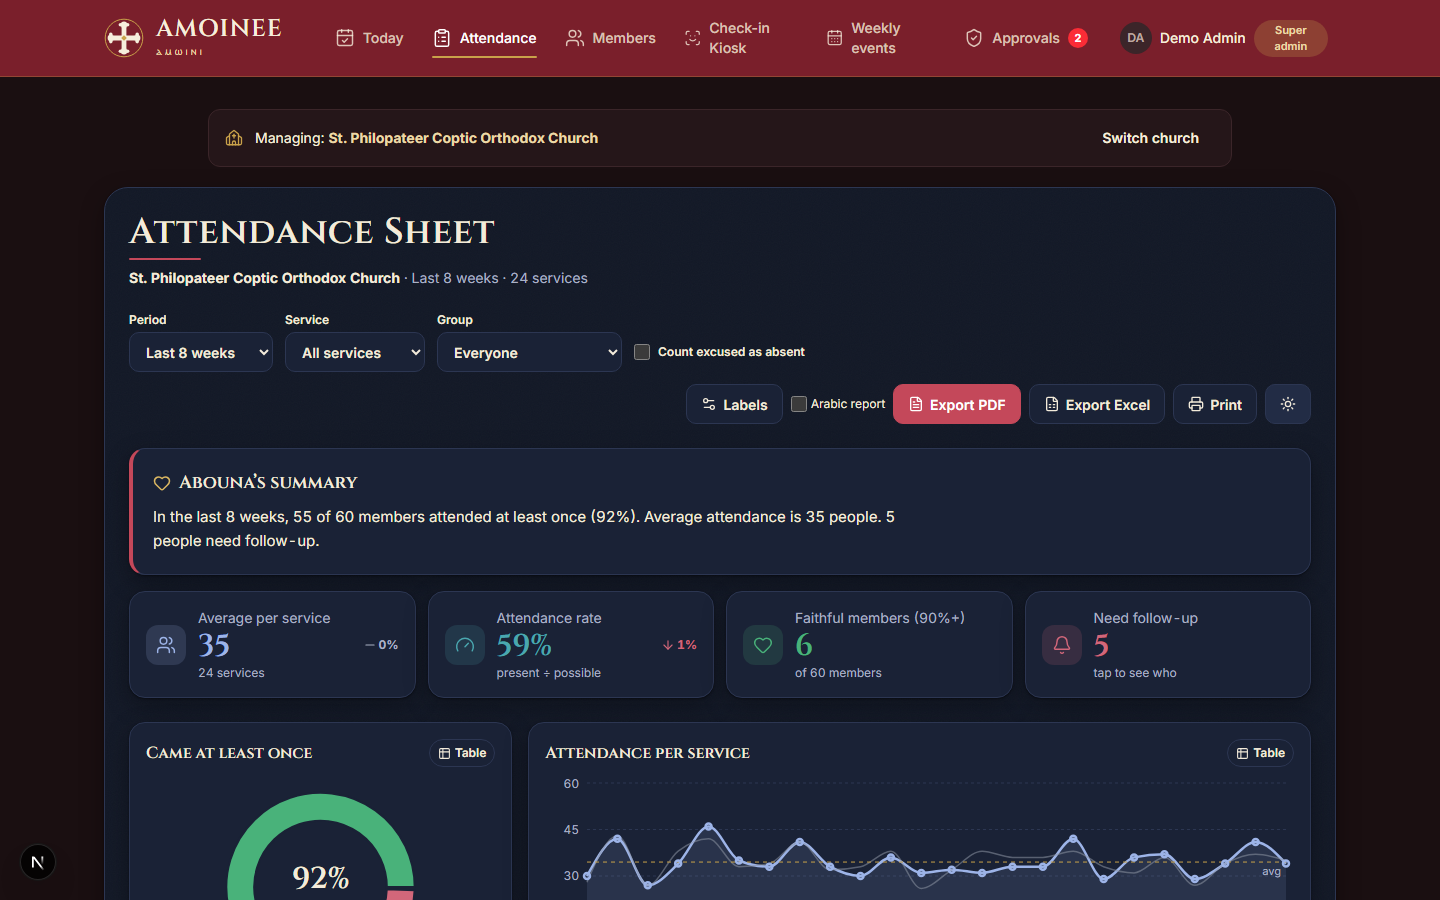
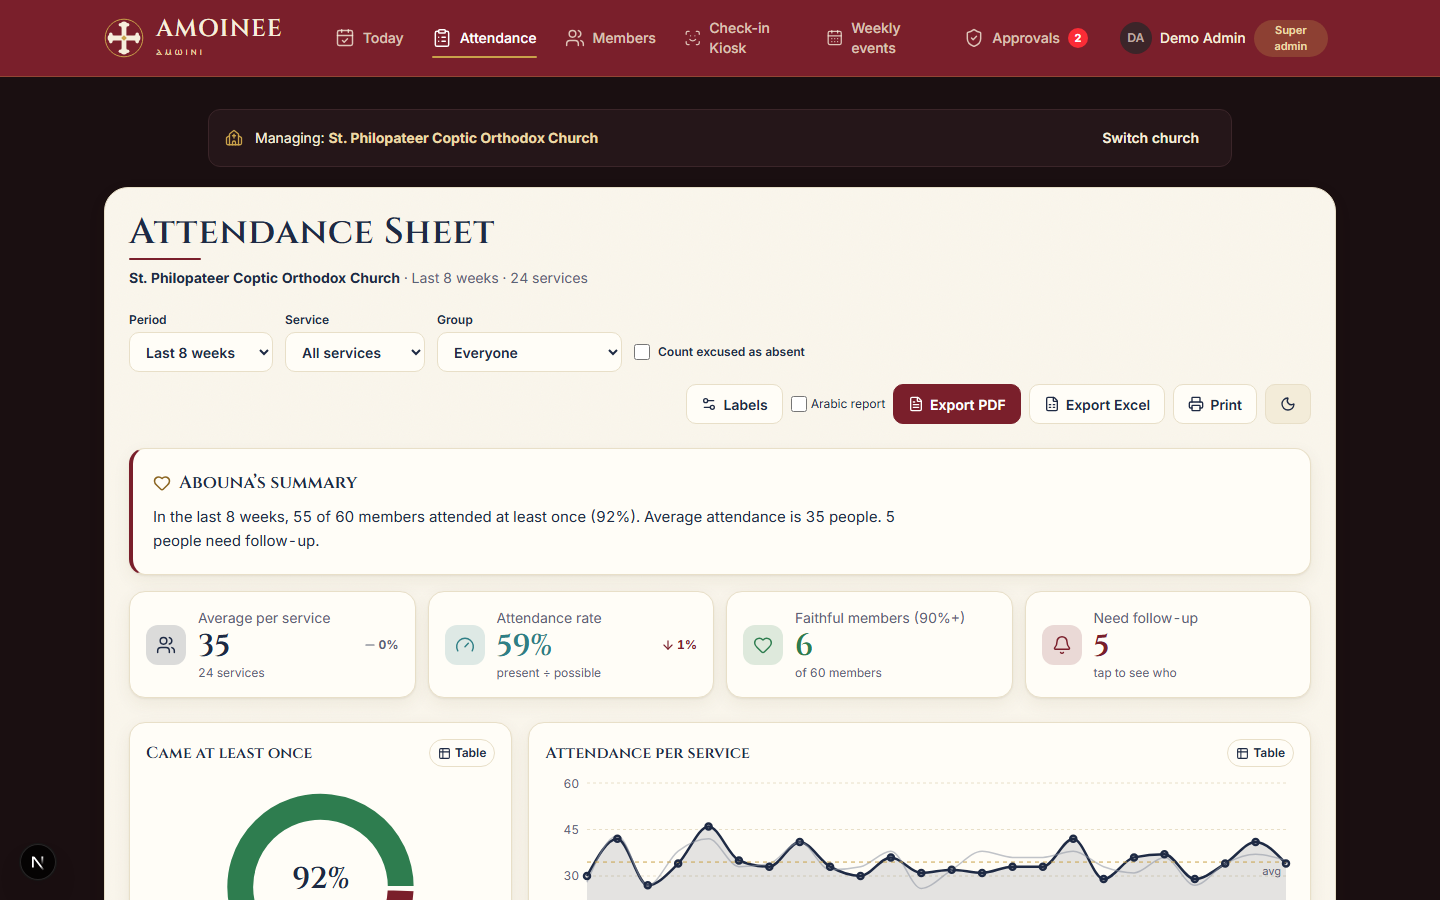
Attendance: dark ink look by default

diff --git a/src/components/attendance/AttendanceView.tsx b/src/components/attendance/AttendanceView.tsx
@@ -16,10 +16,10 @@ import PrintReport from "./PrintReport";
 import RankedList, { DEFAULT_FILTER, applyFilter, type Filter } from "./RankedList";
 import Summary from "./Summary";
 
-// Ledger / ink look, remembered on this device
+// Dark "ink" look is the default (the whole app is dark); the parchment look is a choice remembered on this device
 const INK_KEY = "amoinee-ledger-ink";
 const inkListeners = new Set<() => void>();
-const readInk = () => { try { return localStorage.getItem(INK_KEY) === "1"; } catch { return false; } };
+const readInk = () => { try { return localStorage.getItem(INK_KEY) !== "0"; } catch { return true; } };
 const subInk = (cb: () => void) => { inkListeners.add(cb); return () => { inkListeners.delete(cb); }; };
 const setInk = (v: boolean) => { try { localStorage.setItem(INK_KEY, v ? "1" : "0"); } catch {} inkListeners.forEach((f) => f()); };
 
@@ -28,7 +28,7 @@ export default function AttendanceView({ raw, period, periodKey, today, church, 
 }) {
   const router = useRouter();
   const nextRouter = useNextRouter(); // keeps ?query (English only app, no locale prefix)
-  const ink = useSyncExternalStore(subInk, readInk, () => false);
+  const ink = useSyncExternalStore(subInk, readInk, () => true);
   const [local, setLocal] = useState<Raw>(raw); // demo mode keeps label changes in memory
   const data = demo ? local : raw;
   const [custom, setCustom] = useState({ from: period.from, to: period.to });

diff --git a/docs/HANDOFF.md b/docs/HANDOFF.md
@@ -196,3 +196,5 @@ What it is: new admin tab `/attendance` (after Today). Parchment-ledger look (sc
 - ledger.css is now inside `@layer components` so Tailwind utilities (ps-9 etc.) win; checkboxes use native look.
 - Header shows the part before @ when the profile name is an email, with the Super admin badge.
 - Not changed: "session expired after deploy". Deploys do not touch Supabase sessions (cookies refreshed in `proxy.ts`); could not reproduce, likely the test browser's cookies.
+
+- Attendance page now starts in the dark "ink" look (app default). The parchment look is a toggle (sun/moon button) remembered per device; localStorage key amoinee-ledger-ink ("0" = parchment).
